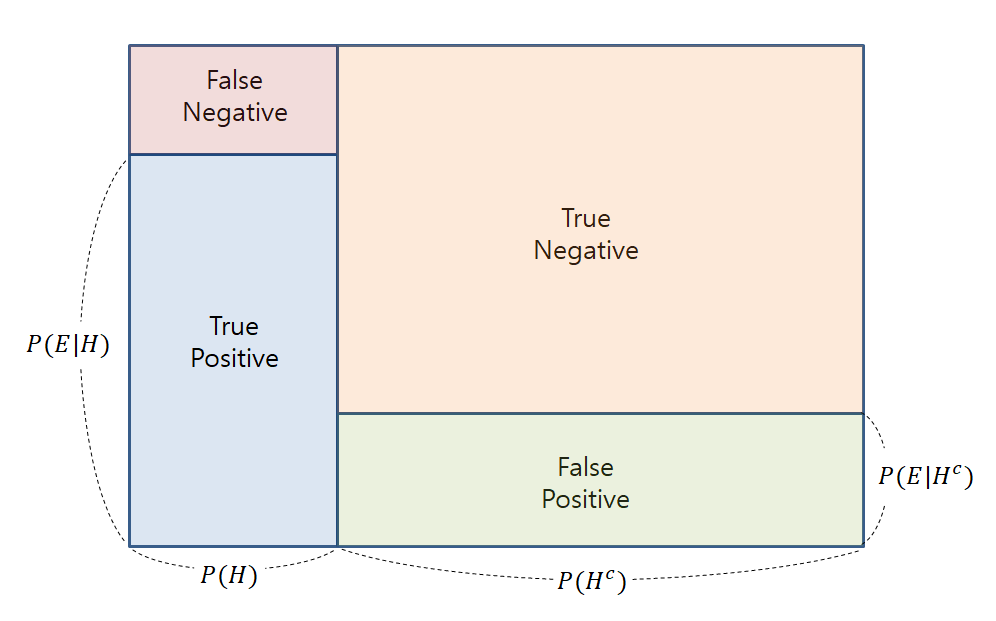
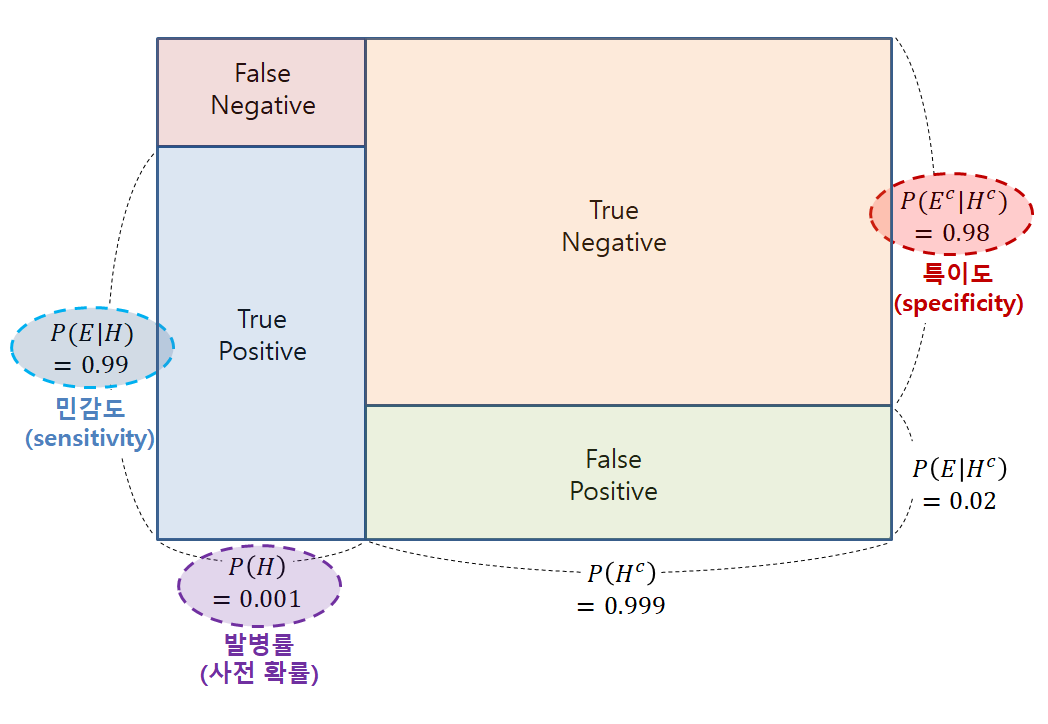
pic2 update

Changed region(s): [[0.0, 0.0306, 0.996, 0.9485], [0.5291, 0.2754, 0.6536, 0.4283], [0.5602, 0.9179, 0.6536, 0.9485]]

diff --git a/_posts/2020-01-09-Bayes_rule.md b/_posts/2020-01-09-Bayes_rule.md
@@ -69,14 +69,34 @@ $$P(H|E) = \frac{P(E|H)P(H)}{P(E)}$$
 
 확률론 패러다임에 큰 변화를 가져왔다고 할 수 있다.
 
-# 문제 해결을 위한 베이즈 정리의 시각적 접근
+# 문제 해결을 통한 베이즈 정리의 이해
 
-Hypothesis와 Evidence를 잘 정의할 수 있어야 함.
+간단한 예제 문제를 풀면서 베이즈 정리가 새로운 정보를 토대로 어떤 사건이 발생했다는 주장에 대한 신뢰도를 갱신해 나가는 방법이라는 점에 대해 좀 더 잘 이해해보도록 하자.
+
+## 예제 1 
+
+질병 A의 발병률은 0.1%로 알려져있다. 이 질병이 실제로 있을 때 질병이 있다고 검진할 확률(민감도)은 99%, 질병이 없을 때 없다고 실제로 질병이 없다고 검진할 확률(특이도)는 98%라고 하자.
+
+만약 어떤 사람이 질병에 걸렸다고 검진받았을 때, 이 사람이 정말로 질병에 걸렸을 확률은?
+
+### Solution
+
+이런 종류의 베이즈 정리를 이용한 문제를 잘 해결하기 위해서는 앞서 언급했던 Hypothesis와 Evidence를 잘 정의할 수 있어야 한다.
+
+이 문제에서 Hypothesis와 Evidence는 다음과 같이 정의할 수 있다.
 
 * Hypothesis: True이다. 즉 실제로 병이 있다.
 * Evidence: Positive로 출력되었다.
+
+따라서, 기본적으로 질병 A의 발병률은 0.1%이므로 임의의 사람이 이 질병에 걸렸을 확률은 $P(H)$로 쓸 수 있으며, $P(H)=0.001$이다.
+
+
 
 <p align="center">
   <img width="500" src="https://raw.githubusercontent.com/angeloyeo/angeloyeo.github.io/master/pics/2020-01-09-Bayes_rule/pic2.png"> <br>
   그림 2. 주어진 확률값들의 값을 사각형의 상대적 넓이로 시각화 한 것
 </p>
+
+## 예제 2 
+
+### Solution
